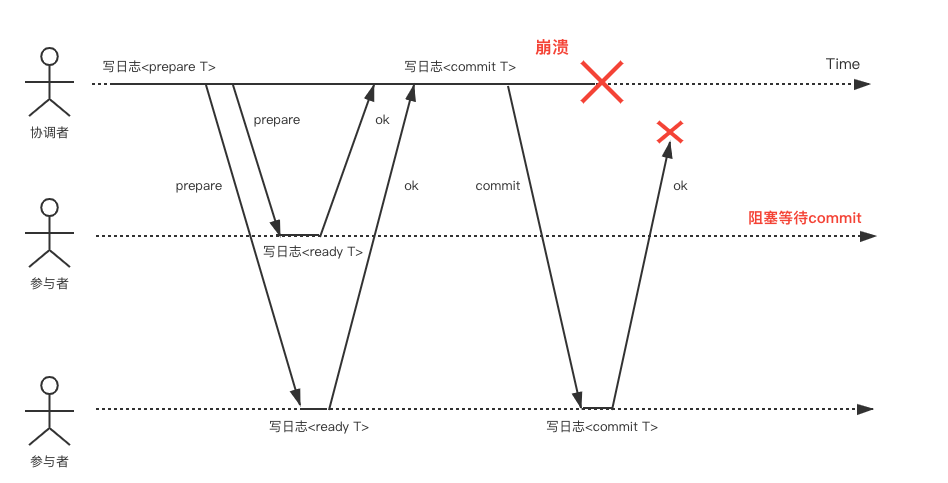
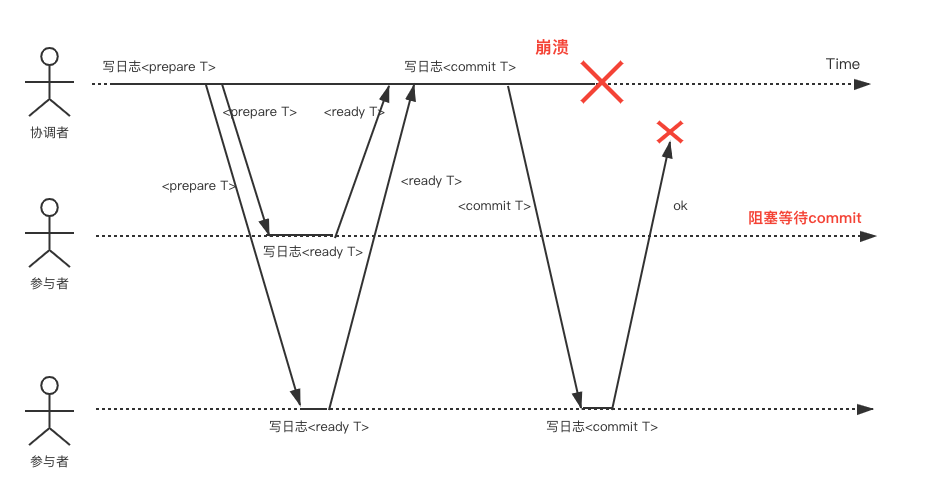
update

diff --git a/_posts/2021-07-11-2pc.md b/_posts/2021-07-11-2pc.md
@@ -26,25 +26,33 @@ toc: true
 
 阶段1：协调者（即事务管理器）发送prepare request至所有的参与者。询问其是否可提交，并跟踪参与者的回应。
 
-在这个阶段，当参与者回复ok之前，需检查是否存在违反约束或者冲突，并要确保任何情况都可以提交，这是***参与者所作出的承诺***。
+在这个阶段，当参与者回复ready之前，需检查是否存在违反约束或者冲突，并要确保任何情况都可以提交，这是***参与者所作出的承诺***。
 
 阶段2：协调者获取到所有参与者的回答后，根据具体情况判断提交与否：
 
-- 如果所有参与者回复ok，表示他们已经准备好提交，则协调者会发出commit request给参与者，进行实际的提交。
+- 如果所有参与者回复ready，表示他们已经准备好提交，则协调者会发出commit request给参与者，进行实际的提交。
 
-- 如果有至少一个参与者回复not ok，表示该参与者无法正确提交，协调者就会向参与者发送放弃请求。
+- 如果有至少一个参与者回复abort，表示该参与者无法正确提交，协调者就会向参与者发送放弃请求。
 
 在这个阶段中，协调者根据所有参与者的回复获取事务提交与否的最终决定，并需要将最终决定落盘。这个时刻称为***提交点***。在落盘之后，需要向所有参与者发送提交请求，即使发生了超时等失败，也要一直重试直到成功。这是***协调者所作出的承诺***。
 
 ***这里协调者和参与者的两个承诺是不可撤销的，必须严格贯彻。也正是这两个承诺才保证了2pc的原子性***。
 
-![](../images/2pc-1.png)
+![事务T正常流程](../images/2pc-normal.png)
+
+上图是事务T的正常流程，从图中可以看到，2pc需要协调者经过2次日志落盘，参与者2次日志落盘，以及2次rpc往返才能返回给客户端响应。
+
+![事务T失败流程](../images/2pc-abnormal.png)
+
+上图是事务T的失败流程，可以看出失败的事务流程与正常的事务流程一样，也是需要协调者2次落盘，参与者2次落盘，以及2次rpc往返才能给客户端响应。
 
 ## 阻塞式协议
 
-从上面的基本流程可以看出来，2pc是一个阻塞式协议。当参与者回复prepare ok之后，需要阻塞一直等待协调者的最终决定。如果在决定到达之前协调者发生故障，则参与者只能等待协调者恢复。这里主要是由于获取不到协调者的最终决定，参与者不知道下一步该如何操作，因为有可能有其他参与者返回了not ok而导致协调者最终放弃事务。
+从上面的基本流程可以看出来，2pc是一个阻塞式协议。当参与者回复prepare ready之后，需要阻塞一直等待协调者的最终决定。如果在决定到达之前协调者发生故障，则参与者只能等待协调者恢复。这里主要是由于获取不到协调者的最终决定，参与者不知道下一步该如何操作，因为有可能有其他参与者返回了abort而导致协调者最终放弃事务。
 
-![](../images/2pc-2.png)
+![](../images/2pc-coordinator-crash.png)
+
+上图是2pc执行过程中协调者宕机的情况，此时参与者会一直等待协调者恢复。而由于协调者的事务执行过程都有日志落盘，所以当协调者恢复后，可以继续执行事务过程。
 
 对于上述问题，在实践中多采用2pc和Paxos等共识协议结合的方式，由Paxos来保证协调者的高可用。
 
@@ -52,7 +60,7 @@ toc: true
 
 - 如果prepare到来之前或者prepare ack发送之前参与者故障，那么协调者将取消事务。
 
-- 如果参与者回复了parepare ack为ok，协调者决定提交事务时参与者发生故障，那么协调者将一直重试向参与者发送commit请求。
+- 如果参与者回复了parepare ack为ready，协调者决定提交事务时参与者发生故障，那么协调者将一直重试向参与者发送commit请求。
 
 ## 业内的优化实现
 
